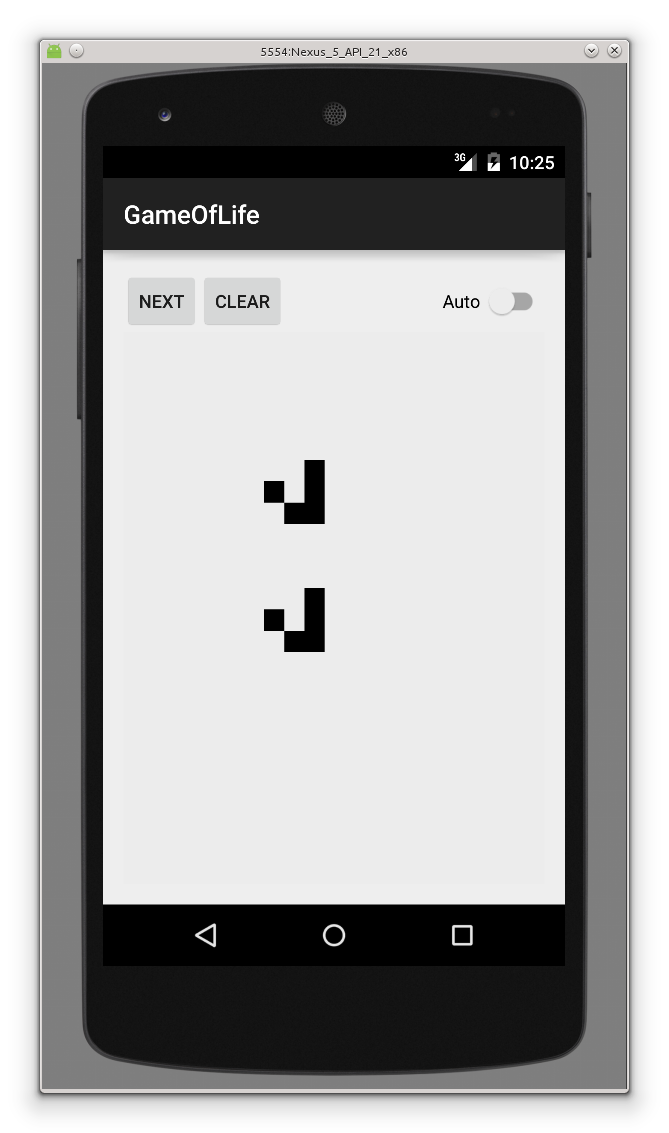
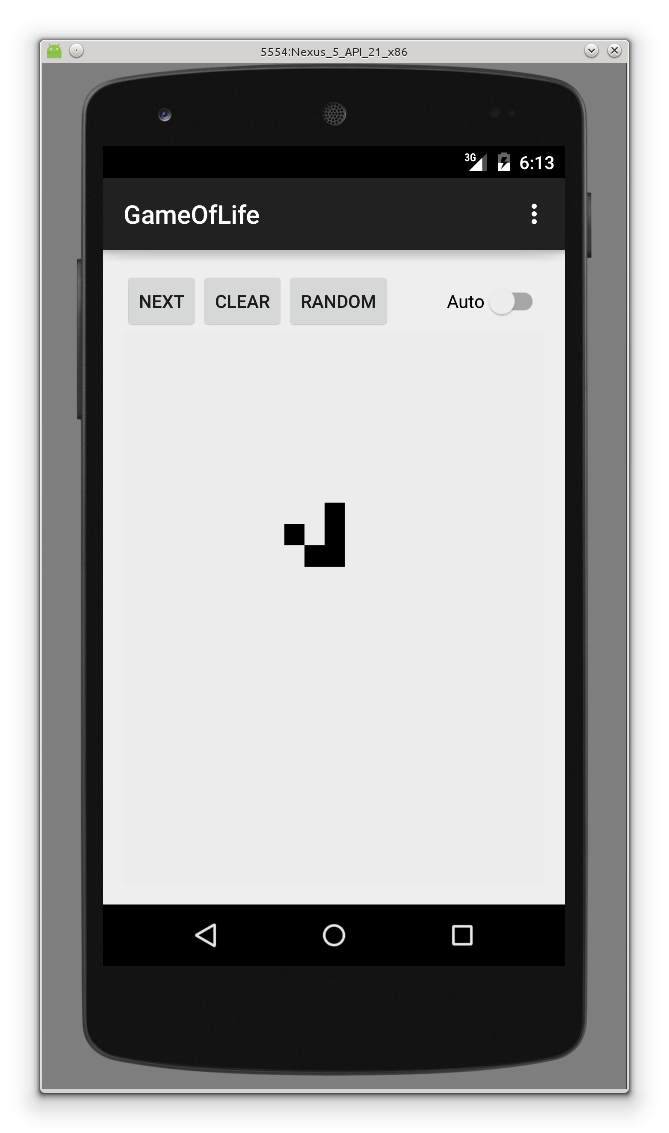
Add Random button and settings

diff --git a/app/src/main/java/hlfernandez/sing/ei/uvigo/es/gameoflife/MainActivity.java b/app/src/main/java/hlfernandez/sing/ei/uvigo/es/gameoflife/MainActivity.java
@@ -1,6 +1,8 @@
 package hlfernandez.sing.ei.uvigo.es.gameoflife;
 
 import android.content.Intent;
+import android.content.SharedPreferences;
+import android.preference.PreferenceManager;
 import android.support.v7.app.ActionBarActivity;
 import android.os.Bundle;
 import android.util.DisplayMetrics;
@@ -17,7 +19,8 @@ import android.widget.Toast;
 public class MainActivity extends ActionBarActivity {
 
     public static final int CELL_SIZE = 50;
-    private static final int INTERVAL = 500;
+    private static int INTERVAL = 500;
+    private static final int RESULT_SETTINGS = 1;
 
     private Board board;
     private Thread animatorThread;
@@ -29,6 +32,9 @@ public class MainActivity extends ActionBarActivity {
     protected void onCreate(Bundle savedInstanceState) {
         super.onCreate(savedInstanceState);
         setContentView(R.layout.activity_main);
+
+        PreferenceManager.setDefaultValues(this, R.xml.preferences, false);
+        updatePreferences();
 
         gridview = (GridView) findViewById(R.id.gridView);
 
@@ -66,19 +72,29 @@ public class MainActivity extends ActionBarActivity {
             }
         });
 
+        final Button button3 = (Button) findViewById(R.id.btnRandom);
+        button3.setOnClickListener(new View.OnClickListener() {
+            public void onClick(View v) {
+                board.setCells(Board.randomCells(numRows, numCols));
+                gridview.invalidateViews();
+            }
+        });
+
         gridview.setOnItemClickListener(new AdapterView.OnItemClickListener() {
             public void onItemClick(AdapterView<?> parent, View v,
                                     int position, long id) {
 
-                int row = position / numCols;
-                int col = position % numCols;
-                Cell newCell = new Cell(row, col);
-                if(board.getCells().contains(newCell)) {
-                    board.getCells().remove(newCell);
-                } else {
-                    board.getCells().add(newCell);
+                if(!auto) {
+                    int row = position / numCols;
+                    int col = position % numCols;
+                    Cell newCell = new Cell(row, col);
+                    if (board.getCells().contains(newCell)) {
+                        board.getCells().remove(newCell);
+                    } else {
+                        board.getCells().add(newCell);
+                    }
+                    gridview.invalidateViews();
                 }
-                gridview.invalidateViews();
             }
         });
 
@@ -92,6 +108,7 @@ public class MainActivity extends ActionBarActivity {
 
                 button.setEnabled(!isChecked);
                 button2.setEnabled(!isChecked);
+                button3.setEnabled(!isChecked);
                 auto = isChecked;
                 if(isChecked){
                     animatorThread = new Thread(new BoardAnimator());
@@ -121,11 +138,38 @@ public class MainActivity extends ActionBarActivity {
         int id = item.getItemId();
 
         //noinspection SimplifiableIfStatement
-        //if (id == R.id.action_settings) {
-        //    return true;
-        //}
+        if (id == R.id.action_settings) {
+            Intent i = new Intent(this, SettingsActivity.class);
+            startActivityForResult(i, RESULT_SETTINGS);
+            return true;
+        }
 
         return super.onOptionsItemSelected(item);
+    }
+
+    @Override
+    protected void onActivityResult(int requestCode, int resultCode, Intent data) {
+        super.onActivityResult(requestCode, resultCode, data);
+
+        switch (requestCode) {
+            case RESULT_SETTINGS:
+                updatePreferences();
+                break;
+
+        }
+
+    }
+
+    private void updatePreferences() {
+        SharedPreferences sharedPrefs = PreferenceManager
+                .getDefaultSharedPreferences(this);
+
+        try {
+            int newInterval = Integer.valueOf(sharedPrefs.getString("pref_interval", "NULL"));
+            INTERVAL = newInterval;
+        } catch(Exception e){
+
+        }
     }
 
     class BoardAnimator implements Runnable {

diff --git a/app/src/main/java/hlfernandez/sing/ei/uvigo/es/gameoflife/SettingsActivity.java b/app/src/main/java/hlfernandez/sing/ei/uvigo/es/gameoflife/SettingsActivity.java
@@ -1,0 +1,19 @@
+package hlfernandez.sing.ei.uvigo.es.gameoflife;
+
+import android.app.Activity;
+import android.os.Bundle;
+import android.preference.PreferenceActivity;
+
+public class SettingsActivity extends Activity {
+
+    @Override
+    protected void onCreate(Bundle savedInstanceState) {
+        super.onCreate(savedInstanceState);
+
+        // Display the fragment as the main content.
+        getFragmentManager().beginTransaction()
+                .replace(android.R.id.content, new SettingsFragment())
+                .commit();
+    }
+
+}

diff --git a/app/src/main/java/hlfernandez/sing/ei/uvigo/es/gameoflife/SettingsFragment.java b/app/src/main/java/hlfernandez/sing/ei/uvigo/es/gameoflife/SettingsFragment.java
@@ -1,0 +1,14 @@
+package hlfernandez.sing.ei.uvigo.es.gameoflife;
+
+import android.os.Bundle;
+import android.preference.PreferenceFragment;
+
+public class SettingsFragment extends PreferenceFragment {
+    @Override
+    public void onCreate(Bundle savedInstanceState) {
+        super.onCreate(savedInstanceState);
+
+        // Load the preferences from an XML resource
+        addPreferencesFromResource(R.xml.preferences);
+    }
+}
